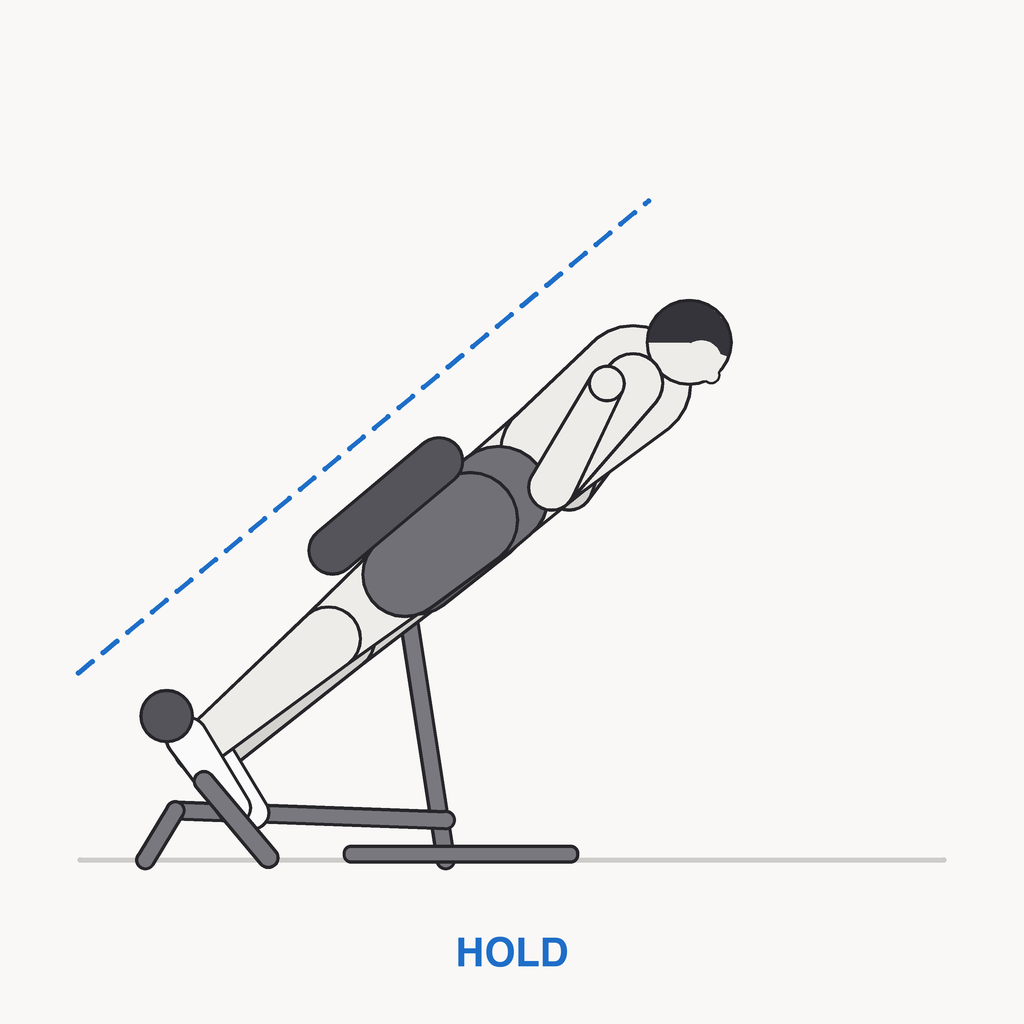
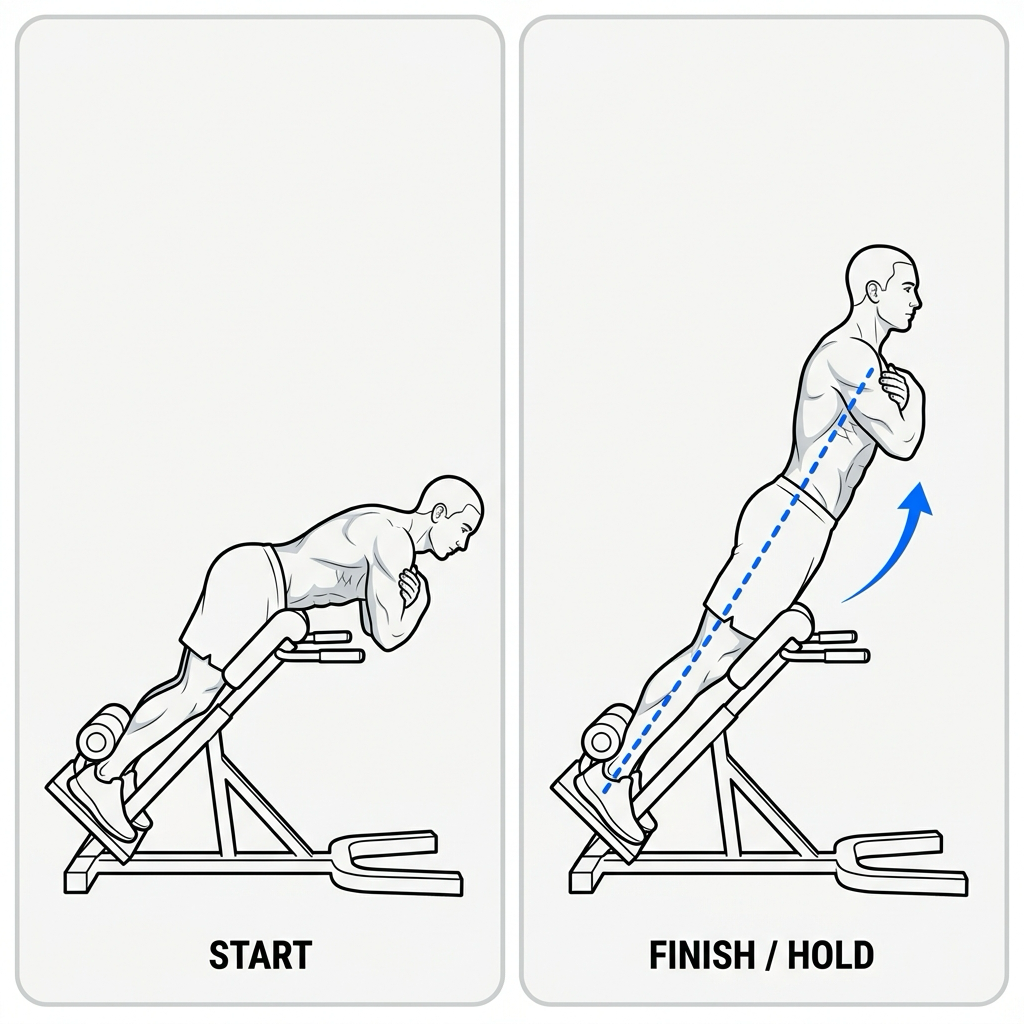
feat(images): publish Back Extension Hold illustration (rev 15)

diff --git a/FORM_GUIDE_IMAGE_TODO.md b/FORM_GUIDE_IMAGE_TODO.md
@@ -13,13 +13,12 @@ filename** in `remote/images/exercises/`, then in the app repo run
 `exerciseImages.revision` in `remote/manifest.json` (and the app repo's `data/remote/manifest.json`),
 push this repo and purge that image's jsDelivr URL. Re-running the script drops the row.
 
-_Last generated 2026-09-30 — 42 pending, 12 replaced._
+_Last generated 2026-09-30 — 41 pending, 13 replaced._
 
 ## Pending
 
 | | Exercise | Current image | Size |
 | --- | --- | --- | --- |
-| [ ] | Back Extension Hold | [`form.back-back-extension-hold.png`](remote/images/exercises/form.back-back-extension-hold.png) | 104 KB |
 | [ ] | Behind-the-Back Shrug | [`form.back-behind-the-back-shrug.png`](remote/images/exercises/form.back-behind-the-back-shrug.png) | 86 KB |
 | [ ] | Bent-Over Dumbbell Row | [`form.back-bent-over-dumbbell-row.png`](remote/images/exercises/form.back-bent-over-dumbbell-row.png) | 78 KB |
 | [ ] | Chest-Supported T-Bar Row | [`form.back-chest-supported-t-bar-row.png`](remote/images/exercises/form.back-chest-supported-t-bar-row.png) | 92 KB |
@@ -63,12 +62,6 @@ _Last generated 2026-09-30 — 42 pending, 12 replaced._
 | [ ] | Smith Machine Shoulder Press | [`form.shoulders-smith-machine-shoulder-press.png`](remote/images/exercises/form.shoulders-smith-machine-shoulder-press.png) | 83 KB |
 
 ## Prompts
-
-### Back Extension Hold
-
-`form.back-back-extension-hold.png`
-
-> Instructional form-guide: Back Extension Hold. Single panel, side view of an athlete on a 45-degree back-extension bench, ankles secured, arms crossed over the chest, body held in one straight line from head to heels. Small blue stopwatch icon and a blue dashed straight line along the body showing the alignment. Style: clean black line art, light gray shading, off-white background, blue arrows only, square 1:1, no photo-realism.
 
 ### Behind-the-Back Shrug
 
@@ -330,3 +323,4 @@ _Last generated 2026-09-30 — 42 pending, 12 replaced._
 - [x] Machine Preacher Curl — `form.arms-machine-preacher-curl.png`
 - [x] Single-Arm Overhead Tricep Extension — `form.arms-single-arm-overhead-tricep-extension.png`
 - [x] Straight Bar Dip — `form.arms-straight-bar-dip.png`
+- [x] Back Extension Hold — `form.back-back-extension-hold.png`
